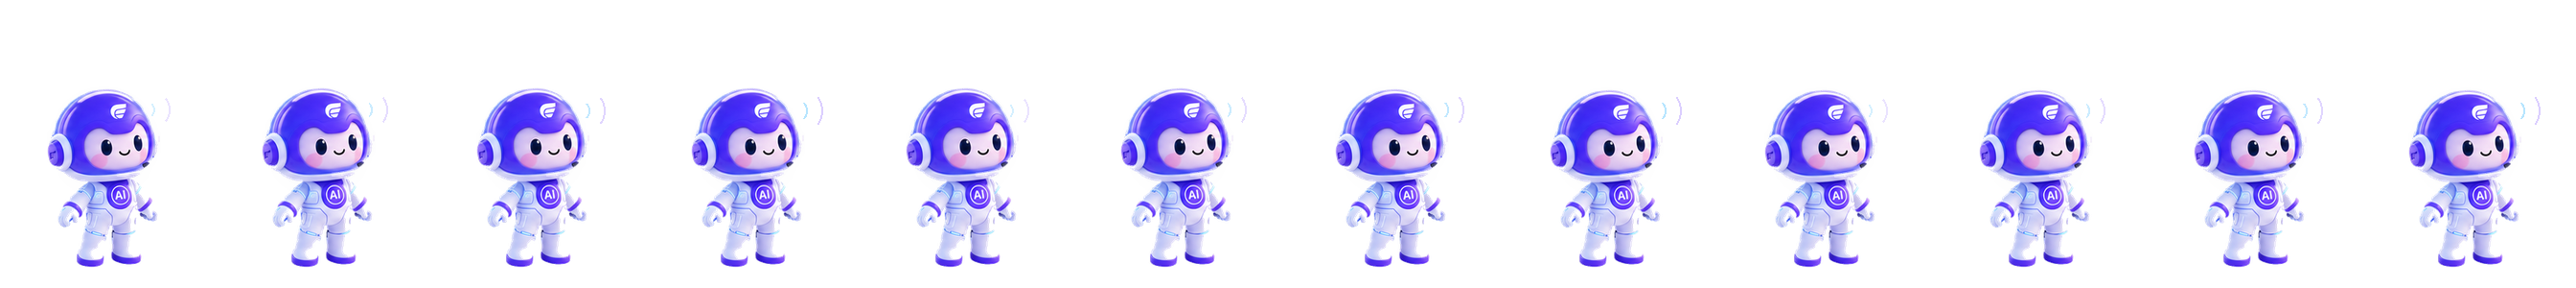
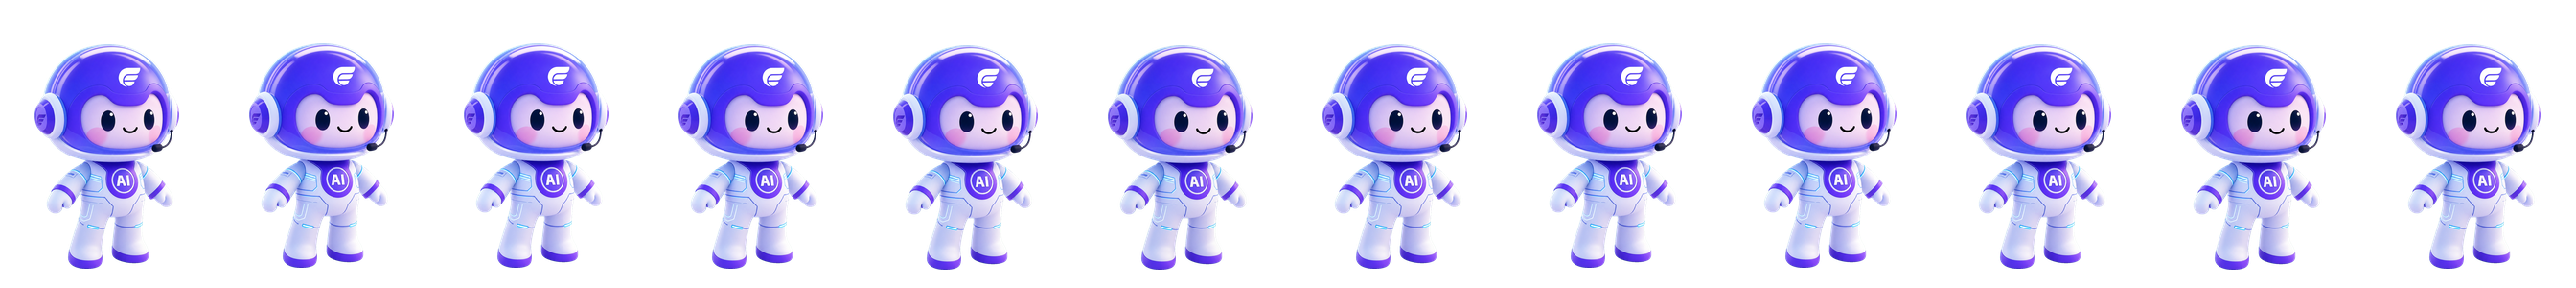
fix: unify fuke mascot runtime frames
用户原始提示词: 何意味 / 你的问题是只有这些吗，你没发现人物不完整吗，而且人物还是大小不定啊？？？？

diff --git a/cockpit/src/lib/mascotAnimationManifest.js b/cockpit/src/lib/mascotAnimationManifest.js
@@ -1,4 +1,8 @@
 /*
+ 更新时间: 2026-07-08 17:33:51 CST
+ 更新内容: 统一所有运行态小人动作到同一套完整稳定福客帧，避免动作切换时出现人物裁切、大小跳变或无意义符号。
+*/
+/*
  更新时间: 2026-07-08 17:20:26 CST
  更新内容: 将福客 AI 待机帧改为同源稳定慢呼吸，降低 fps 并移除快速眨眼，避免左下角小人忽大忽小和鬼畜感。
 */
@@ -46,17 +50,6 @@ const TWELVE_FRAMES = Object.freeze(Array.from({ length: 12 }, (_, index) => ind
 
 export const MASCOT_ACTION_SHEETS = Object.freeze({
   idleFukeRich: sheetSpec('/mascot-actions/mascot-idle-fuke-rich.png'),
-  idleBreathe: sheetSpec('/mascot-actions/mascot-idle-breathe.png'),
-  idleLook: sheetSpec('/mascot-actions/mascot-idle-look.png'),
-  idleBounce: sheetSpec('/mascot-actions/mascot-idle-bounce.png'),
-  idlePatrol: sheetSpec('/mascot-actions/mascot-idle-patrol.png'),
-  wave: sheetSpec('/mascot-actions/mascot-wave.png'),
-  guide: sheetSpec('/mascot-actions/mascot-guide.png'),
-  talk: sheetSpec('/mascot-actions/mascot-talk.png'),
-  think: sheetSpec('/mascot-actions/mascot-think.png'),
-  alert: sheetSpec('/mascot-actions/mascot-alert.png'),
-  celebrate: sheetSpec('/mascot-actions/mascot-celebrate.png'),
-  click: sheetSpec('/mascot-actions/mascot-click.png'),
 });
 
 export const MASCOT_APPROVED_ASSETS = Object.freeze({
@@ -71,17 +64,6 @@ export const MASCOT_APPROVED_ASSETS = Object.freeze({
 
 export const MASCOT_ACTION_AUDIT = Object.freeze({
   idleFukeRich: auditSpec(12, 2, 2, 19),
-  idleBreathe: auditSpec(12, 1, 0, 21),
-  idleLook: auditSpec(12, 1, 0, 21),
-  idleBounce: auditSpec(12, 0, 0, 21),
-  idlePatrol: auditSpec(12, 1, 0, 21),
-  wave: auditSpec(12, 1, 0, 20),
-  guide: auditSpec(12, 1, 0, 20),
-  talk: auditSpec(12, 0, 0, 21),
-  think: auditSpec(12, 0.5, 0, 21),
-  alert: auditSpec(12, 0.5, 0, 21),
-  celebrate: auditSpec(12, 1, 0, 21),
-  click: auditSpec(12, 0.5, 0, 21),
 });
 
 export const MASCOT_IDLE_VARIANTS = Object.freeze([
@@ -141,44 +123,44 @@ export const MASCOT_ANIMATIONS = Object.freeze({
   [MASCOT_ACTIONS.idle]: actionSpec(MASCOT_ACTIONS.idle, defaultIdle.sheetKey, defaultIdle.fps, {
     intensity: 'idle',
   }),
-  [MASCOT_ACTIONS.wave]: actionSpec(MASCOT_ACTIONS.wave, 'wave', 14, {
+  [MASCOT_ACTIONS.wave]: actionSpec(MASCOT_ACTIONS.wave, defaultIdle.sheetKey, defaultIdle.fps, {
     durationMs: 920,
     loop: false,
     intensity: 'greeting',
   }),
-  [MASCOT_ACTIONS.guide]: actionSpec(MASCOT_ACTIONS.guide, 'guide', 12, {
+  [MASCOT_ACTIONS.guide]: actionSpec(MASCOT_ACTIONS.guide, defaultIdle.sheetKey, defaultIdle.fps, {
     durationMs: 1000,
     loop: false,
     intensity: 'guide',
   }),
-  [MASCOT_ACTIONS.talk]: actionSpec(MASCOT_ACTIONS.talk, 'talk', 12, {
+  [MASCOT_ACTIONS.talk]: actionSpec(MASCOT_ACTIONS.talk, defaultIdle.sheetKey, defaultIdle.fps, {
     intensity: 'speech',
   }),
-  [MASCOT_ACTIONS.think]: actionSpec(MASCOT_ACTIONS.think, 'think', 12, {
+  [MASCOT_ACTIONS.think]: actionSpec(MASCOT_ACTIONS.think, defaultIdle.sheetKey, defaultIdle.fps, {
     intensity: 'focus',
   }),
-  [MASCOT_ACTIONS.alert]: actionSpec(MASCOT_ACTIONS.alert, 'alert', 12, {
+  [MASCOT_ACTIONS.alert]: actionSpec(MASCOT_ACTIONS.alert, defaultIdle.sheetKey, defaultIdle.fps, {
     intensity: 'alert',
   }),
-  [MASCOT_ACTIONS.celebrate]: actionSpec(MASCOT_ACTIONS.celebrate, 'celebrate', 14, {
+  [MASCOT_ACTIONS.celebrate]: actionSpec(MASCOT_ACTIONS.celebrate, defaultIdle.sheetKey, defaultIdle.fps, {
     durationMs: 960,
     loop: false,
     intensity: 'celebrate',
   }),
-  [MASCOT_ACTIONS.click]: actionSpec(MASCOT_ACTIONS.click, 'click', 16, {
+  [MASCOT_ACTIONS.click]: actionSpec(MASCOT_ACTIONS.click, defaultIdle.sheetKey, defaultIdle.fps, {
     durationMs: 860,
     loop: false,
     intensity: 'click',
   }),
-  maintenance: actionSpec('maintenance', 'idleBreathe', 12, {
+  maintenance: actionSpec('maintenance', defaultIdle.sheetKey, defaultIdle.fps, {
     intensity: 'maintenance',
   }),
-  maintenanceSave: actionSpec('maintenanceSave', 'celebrate', 14, {
+  maintenanceSave: actionSpec('maintenanceSave', defaultIdle.sheetKey, defaultIdle.fps, {
     durationMs: 960,
     loop: false,
     intensity: 'maintenance-save',
   }),
-  maintenanceReview: actionSpec('maintenanceReview', 'think', 12, {
+  maintenanceReview: actionSpec('maintenanceReview', defaultIdle.sheetKey, defaultIdle.fps, {
     intensity: 'maintenance-review',
   }),
 });

diff --git a/cockpit/src/lib/mascotAnimationManifest.test.js b/cockpit/src/lib/mascotAnimationManifest.test.js
@@ -1,4 +1,8 @@
 /*
+ 更新时间: 2026-07-08 17:33:51 CST
+ 更新内容: 要求所有运行态动作共享同一套完整稳定福客帧，防止状态切换造成裁切、大小跳变或符号残留。
+*/
+/*
  更新时间: 2026-07-08 17:20:26 CST
  更新内容: 要求默认待机保持慢速同源帧循环，避免快速眨眼和跨帧尺寸漂移。
 */
@@ -64,17 +68,6 @@ const requiredActions = [
 
 const requiredSheetKeys = [
   'idleFukeRich',
-  'idleBreathe',
-  'idleLook',
-  'idleBounce',
-  'idlePatrol',
-  'wave',
-  'guide',
-  'talk',
-  'think',
-  'alert',
-  'celebrate',
-  'click',
 ];
 
 function publicAssetExists(src) {
@@ -110,6 +103,7 @@ test('limits the 2D mascot runtime to approved generated project assets', () => 
     assert.ok(publicAssetExists(sheet));
   }
   assert.ok(!Object.values(MASCOT_APPROVED_ASSETS.sheets).includes('/mascot-actions/mascot-laptop.png'));
+  assert.deepEqual(Object.values(MASCOT_APPROVED_ASSETS.sheets), ['/mascot-actions/mascot-idle-fuke-rich.png']);
 });
 
 test('uses the stabilized Fu Xiaoke slow idle sheet as the default real frame loop', () => {
@@ -129,14 +123,11 @@ test('maps product actions to explicit frame animation specs', () => {
     const animation = MASCOT_ANIMATIONS[action];
     assert.ok(animation, `${action} should have an animation spec`);
     assert.ok(Array.isArray(animation.frames), `${action} should declare frames`);
-    if (action === MASCOT_ACTIONS.idle) {
-      assert.equal(animation.fps, 6, `${action} should be a calm slow idle loop`);
-    } else {
-      assert.ok(animation.fps >= 12, `${action} should be at least 12fps`);
-    }
+    assert.equal(animation.fps, 6, `${action} should use the calm stable Fu Xiaoke loop`);
     assert.equal(animation.playback, 'frames', `${action} should play actual authored frames`);
     assert.ok(animation.frames.length >= 8, `${action} should have enough frames for smooth motion`);
-    assert.ok(MASCOT_ACTION_SHEETS[animation.sheetKey], `${action} should reference a generated sheet`);
+    assert.equal(animation.sheetKey, 'idleFukeRich', `${action} should use the same complete stable sheet`);
+    assert.ok(MASCOT_ACTION_SHEETS[animation.sheetKey], `${action} should reference the approved stable sheet`);
     assert.ok(animation.frames.every((frame) => frame >= 0 && frame < MASCOT_ACTION_SHEETS[animation.sheetKey].frameCount));
   }
   assert.equal(MASCOT_ANIMATIONS.guide.durationMs, 1000);
@@ -144,9 +135,9 @@ test('maps product actions to explicit frame animation specs', () => {
   assert.equal(MASCOT_ANIMATIONS.wave.loop, false);
   assert.equal(MASCOT_ANIMATIONS.click.loop, false);
   assert.equal(MASCOT_ANIMATIONS.talk.loop, true);
-  assert.equal(MASCOT_ANIMATIONS.maintenance.sheetKey, 'idleBreathe');
-  assert.equal(MASCOT_ANIMATIONS.maintenanceSave.sheetKey, 'celebrate');
-  assert.equal(MASCOT_ANIMATIONS.maintenanceReview.sheetKey, 'think');
+  assert.equal(MASCOT_ANIMATIONS.maintenance.sheetKey, 'idleFukeRich');
+  assert.equal(MASCOT_ANIMATIONS.maintenanceSave.sheetKey, 'idleFukeRich');
+  assert.equal(MASCOT_ANIMATIONS.maintenanceReview.sheetKey, 'idleFukeRich');
   assert.ok(
     Object.values(MASCOT_ANIMATIONS).every((animation) => animation.sheetKey !== 'laptop'),
     'runtime mascot animations should not display the laptop sheet in the sidebar launcher',
@@ -180,6 +171,6 @@ test('resolves idle variants and unknown actions deterministically', () => {
   );
   assert.equal(getMascotAnimation(MASCOT_ACTIONS.idle, { idleVariant: 'look' }).playback, 'frames');
   assert.equal(getMascotAnimation(MASCOT_ACTIONS.idle, { idleVariant: 'look' }).sheetKey, 'idleFukeRich');
-  assert.equal(getMascotAnimation('maintenanceSave').sheetKey, 'celebrate');
+  assert.equal(getMascotAnimation('maintenanceSave').sheetKey, 'idleFukeRich');
   assert.notEqual(getMascotAnimation('maintenanceSave').sheetKey, 'laptop');
 });